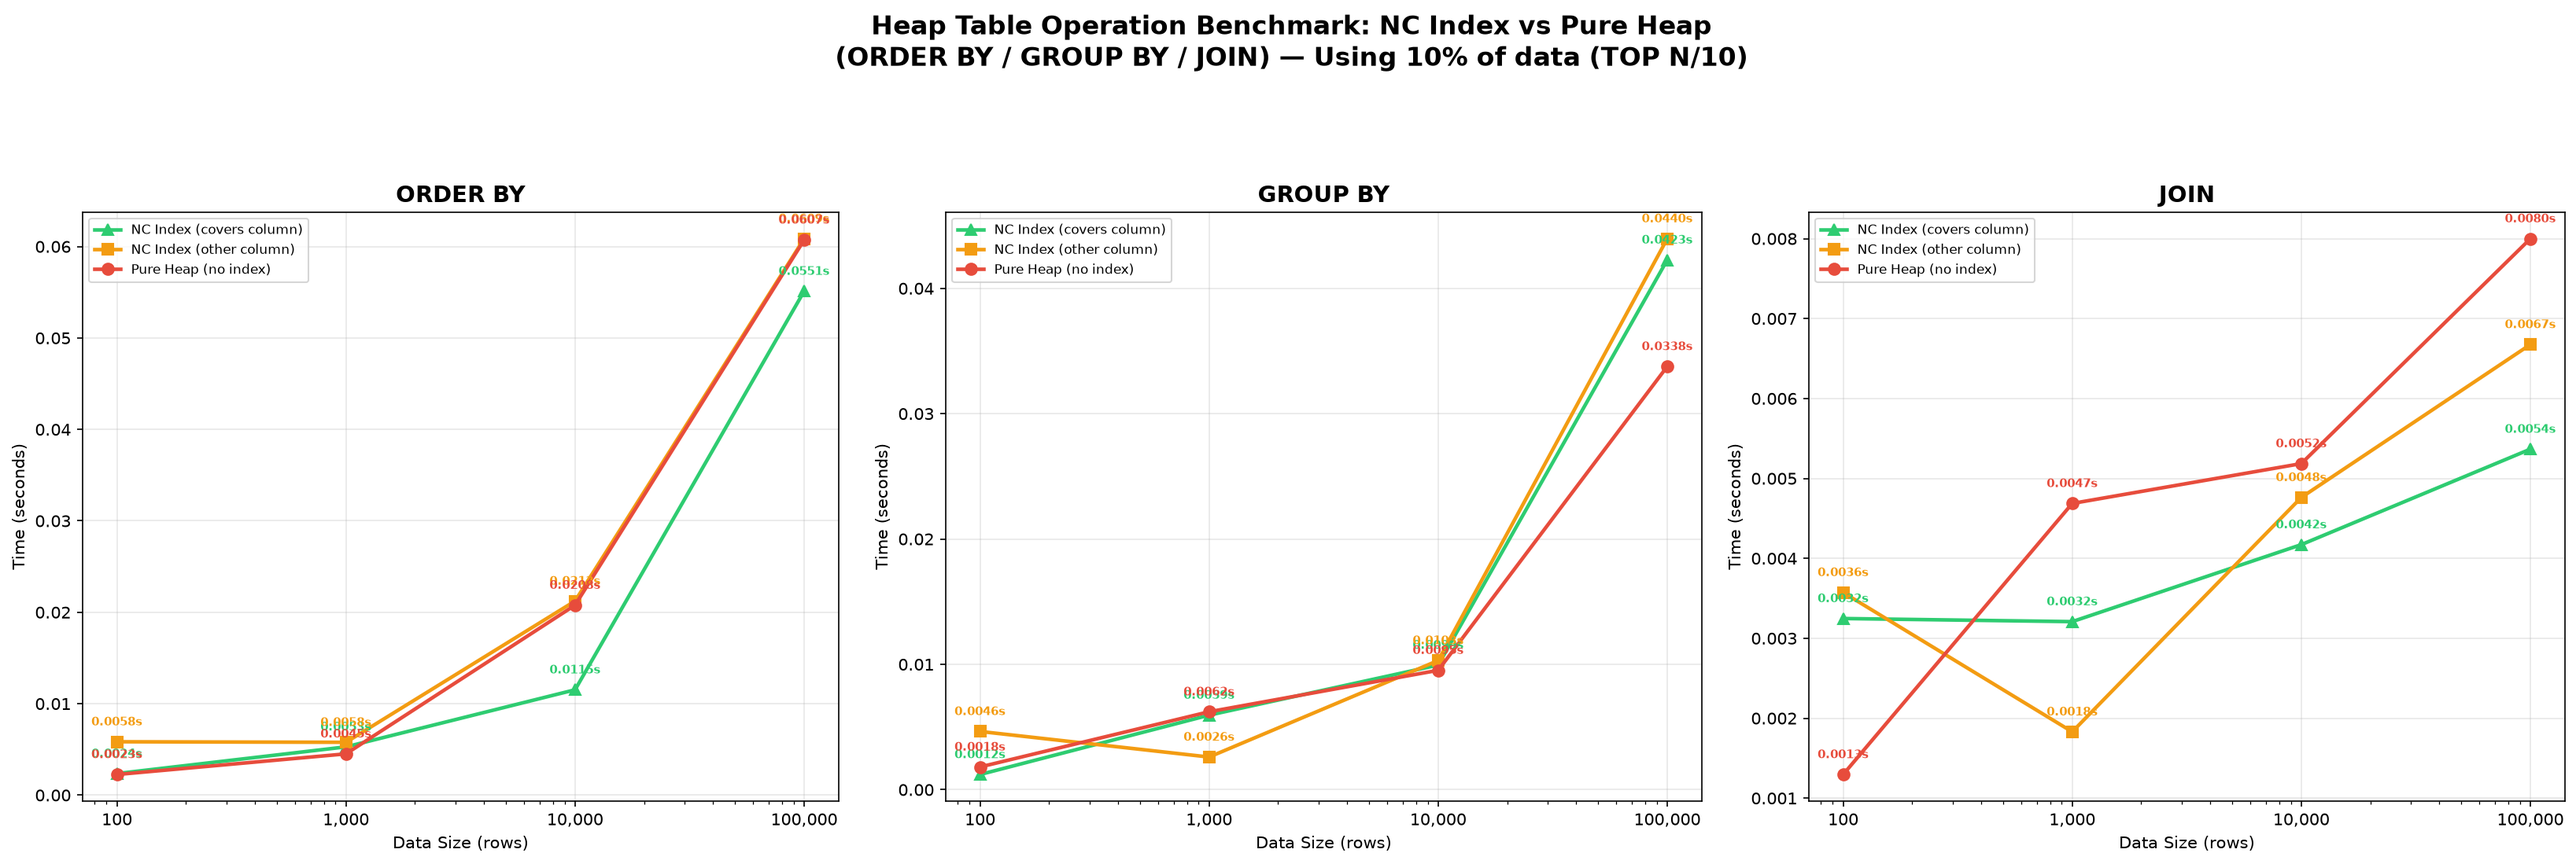
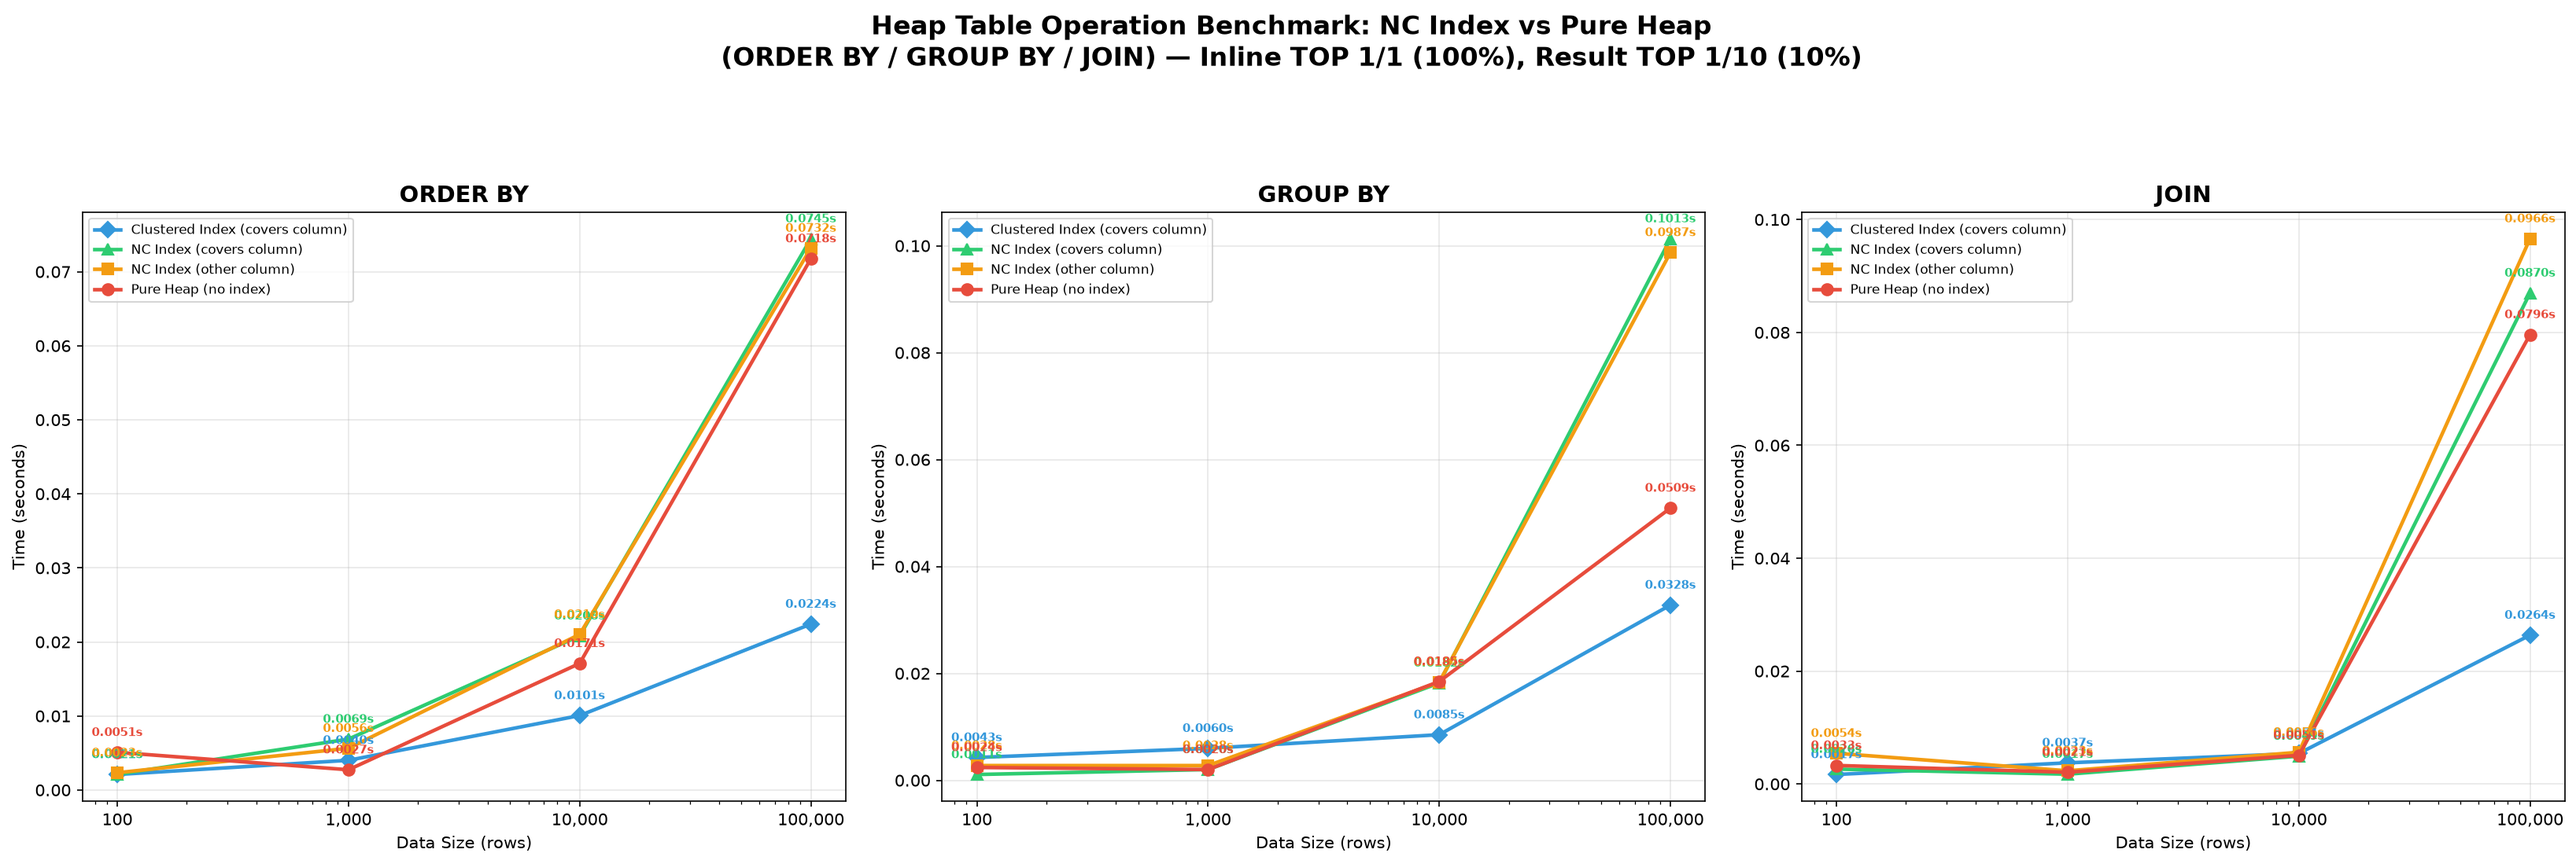
feat: add clustered index support and update benchmark visualizations

diff --git a/src/benchmark_heap_ops.py b/src/benchmark_heap_ops.py
@@ -58,6 +58,7 @@ RESULT_TOP_PCT = 100 / RESULT_TOP_DIVISOR
 # Scenario 2: NC index on val1  → index exists but on a different column
 # Scenario 3: No index at all   → pure heap
 SCENARIOS = [
+    'Clustered Index (covers column)',
     'NC Index (covers column)',
     'NC Index (other column)',
     'Pure Heap (no index)',
@@ -226,7 +227,15 @@ def setup_scenario(cursor, main_tbl, join_tbl, scenario, n):
     drop_table(cursor, join_tbl)
     create_join_table(cursor, join_tbl, n)
 
-    if scenario == 'NC Index (covers column)':
+    if scenario == 'Clustered Index (covers column)':
+        # Clustered index on val2 — the column used for ORDER BY / GROUP BY / JOIN
+        cursor.execute(f"CREATE CLUSTERED INDEX CIX_{main_tbl}_val2 ON [{main_tbl}](val2);")
+        cursor.connection.commit()
+        # Also add clustered index on join table's ref_id for JOIN
+        cursor.execute(f"CREATE CLUSTERED INDEX CIX_{join_tbl}_ref ON [{join_tbl}](ref_id);")
+        cursor.connection.commit()
+
+    elif scenario == 'NC Index (covers column)':
         # NC index on val2 — the column used for ORDER BY / GROUP BY / JOIN
         cursor.execute(f"CREATE NONCLUSTERED INDEX IX_{main_tbl}_val2 ON [{main_tbl}](val2);")
         cursor.connection.commit()
@@ -305,11 +314,13 @@ def run_benchmarks():
 # ── Visualization ─────────────────────────────────────────────────────
 def plot_results(results, operations):
     colors = {
+        'Clustered Index (covers column)': '#3498db',
         'NC Index (covers column)': '#2ecc71',
         'NC Index (other column)':  '#f39c12',
         'Pure Heap (no index)':     '#e74c3c',
     }
     markers = {
+        'Clustered Index (covers column)': 'D',
         'NC Index (covers column)': '^',
         'NC Index (other column)':  's',
         'Pure Heap (no index)':     'o',
@@ -366,7 +377,7 @@ def plot_results(results, operations):
         fontsize=16, fontweight='bold', y=1.02,
     )
 
-    bar_width = 0.25
+    bar_width = 0.2
 
     for size_idx, size in enumerate(DATA_SIZES):
         ax = axes2[size_idx]
@@ -381,12 +392,12 @@ def plot_results(results, operations):
             for bar, val in zip(bars, times):
                 ax.text(
                     bar.get_x() + bar.get_width() / 2, bar.get_height(),
-                    f'{val:.4f}', ha='center', va='bottom', fontsize=6,
+                    f'{val:.4f}', ha='center', va='bottom', fontsize=5,
                     fontweight='bold',
                 )
 
         ax.set_title(f'N = {size:,}', fontsize=12, fontweight='bold')
-        ax.set_xticks(x + bar_width)
+        ax.set_xticks(x + bar_width * 1.5)
         ax.set_xticklabels(operations, fontsize=9)
         ax.set_ylabel('Time (s)')
         if size_idx == 0:
@@ -400,7 +411,7 @@ def plot_results(results, operations):
     print(f"Bar chart saved: {path2}")
 
     # ── 3. Heatmap comparison ─────────────────────────────────────
-    fig3, axes3 = plt.subplots(1, 3, figsize=(22, 5))
+    fig3, axes3 = plt.subplots(1, len(SCENARIOS), figsize=(7 * len(SCENARIOS), 5))
     fig3.suptitle(
         f'Heatmap: Heap Operation Execution Time — Inline TOP 1/{FILTER_DIVISOR} ({FILTER_PCT:.0f}%), Result TOP 1/{RESULT_TOP_DIVISOR} ({RESULT_TOP_PCT:.0f}%)',
         fontsize=16, fontweight='bold', y=1.04,
